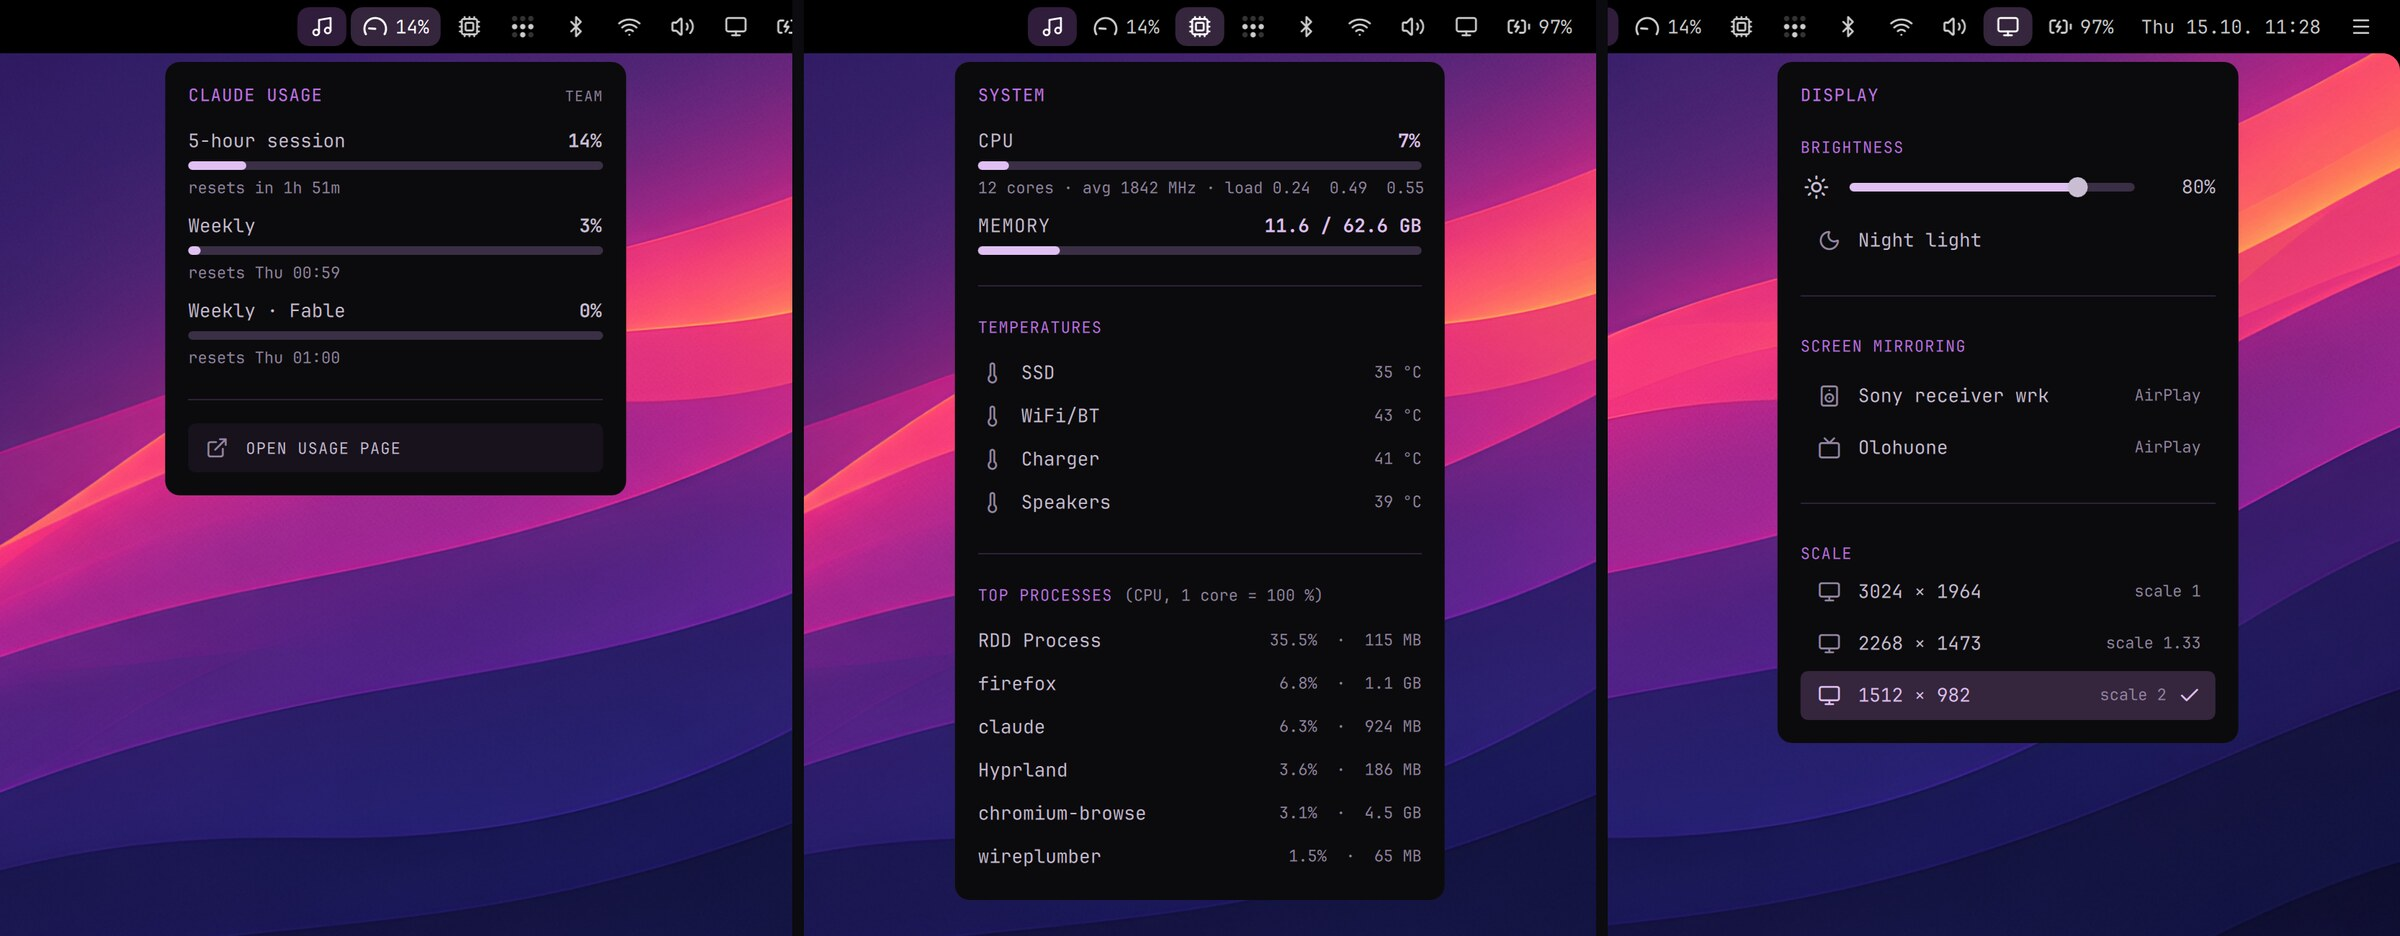
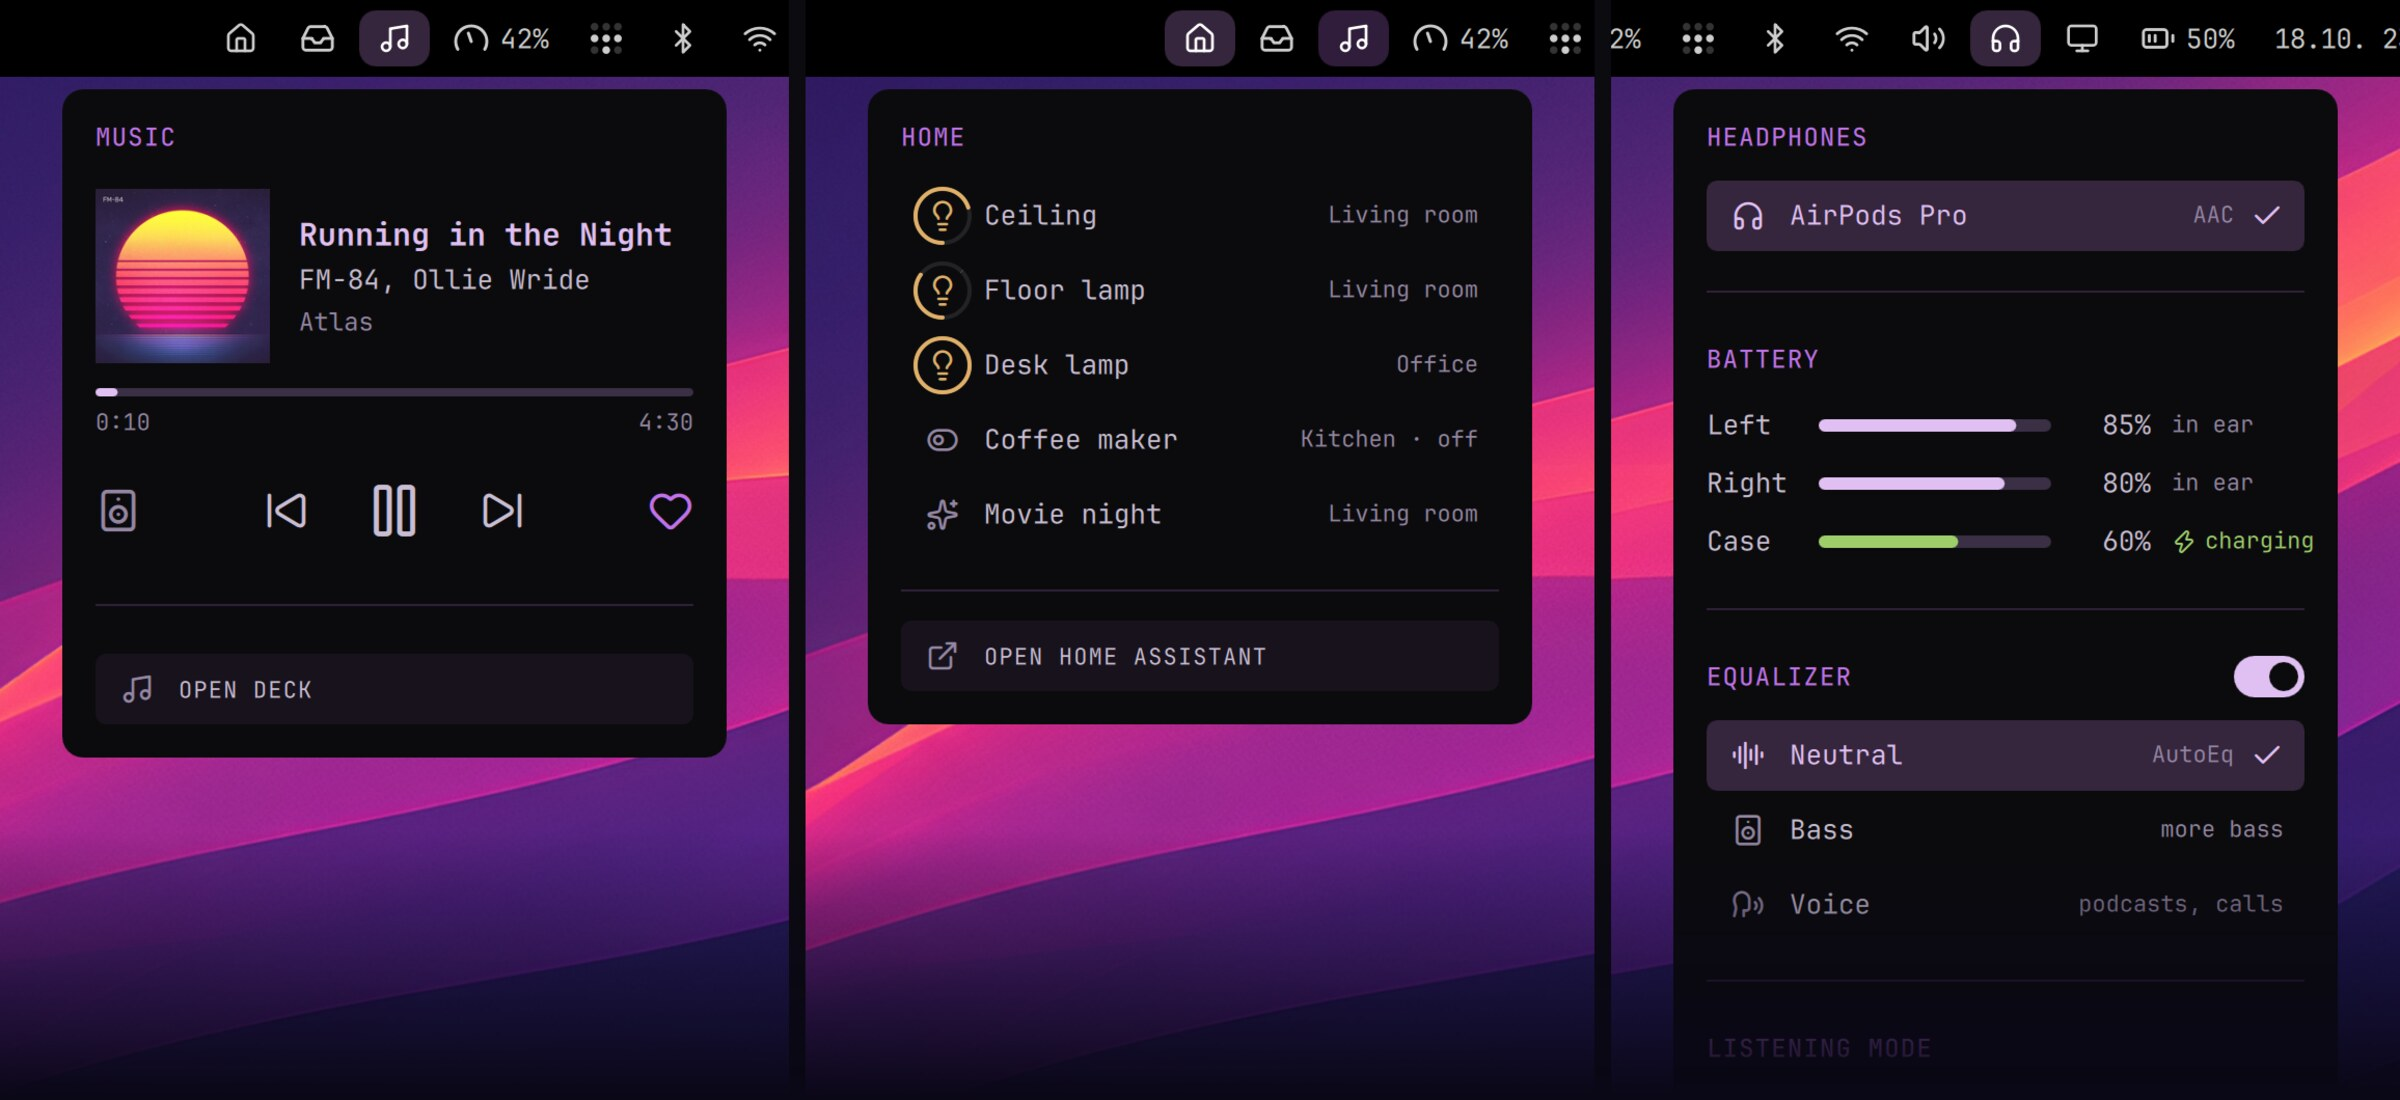
Screenshots: the top bar collage is Music, Home and Headphones; Ferry's menu shot again
The menus collage (README and the website) shows the music, home and headphones menus side by side, staged
with made-up devices and AirPods, the bottom faded out. Ferry's README shot is retaken without the sound
muted in the bar.

diff --git a/README.md b/README.md
@@ -49,7 +49,7 @@ Click an icon and a small menu opens under it: sound and output devices, Wi-Fi, 
 headphone EQ, system load and temperatures, the calendar, notifications, music, and your **Claude usage limits**. ⌘⇧Space lets
 you walk through the menus with the arrow keys.
 
-![Claude usage, system and display menus](docs/screenshots/menus.jpg)
+![The music, home and headphones menus in the top bar](docs/screenshots/menus.jpg)
 
 ### Apps without a terminal, and only the parts you want
 
